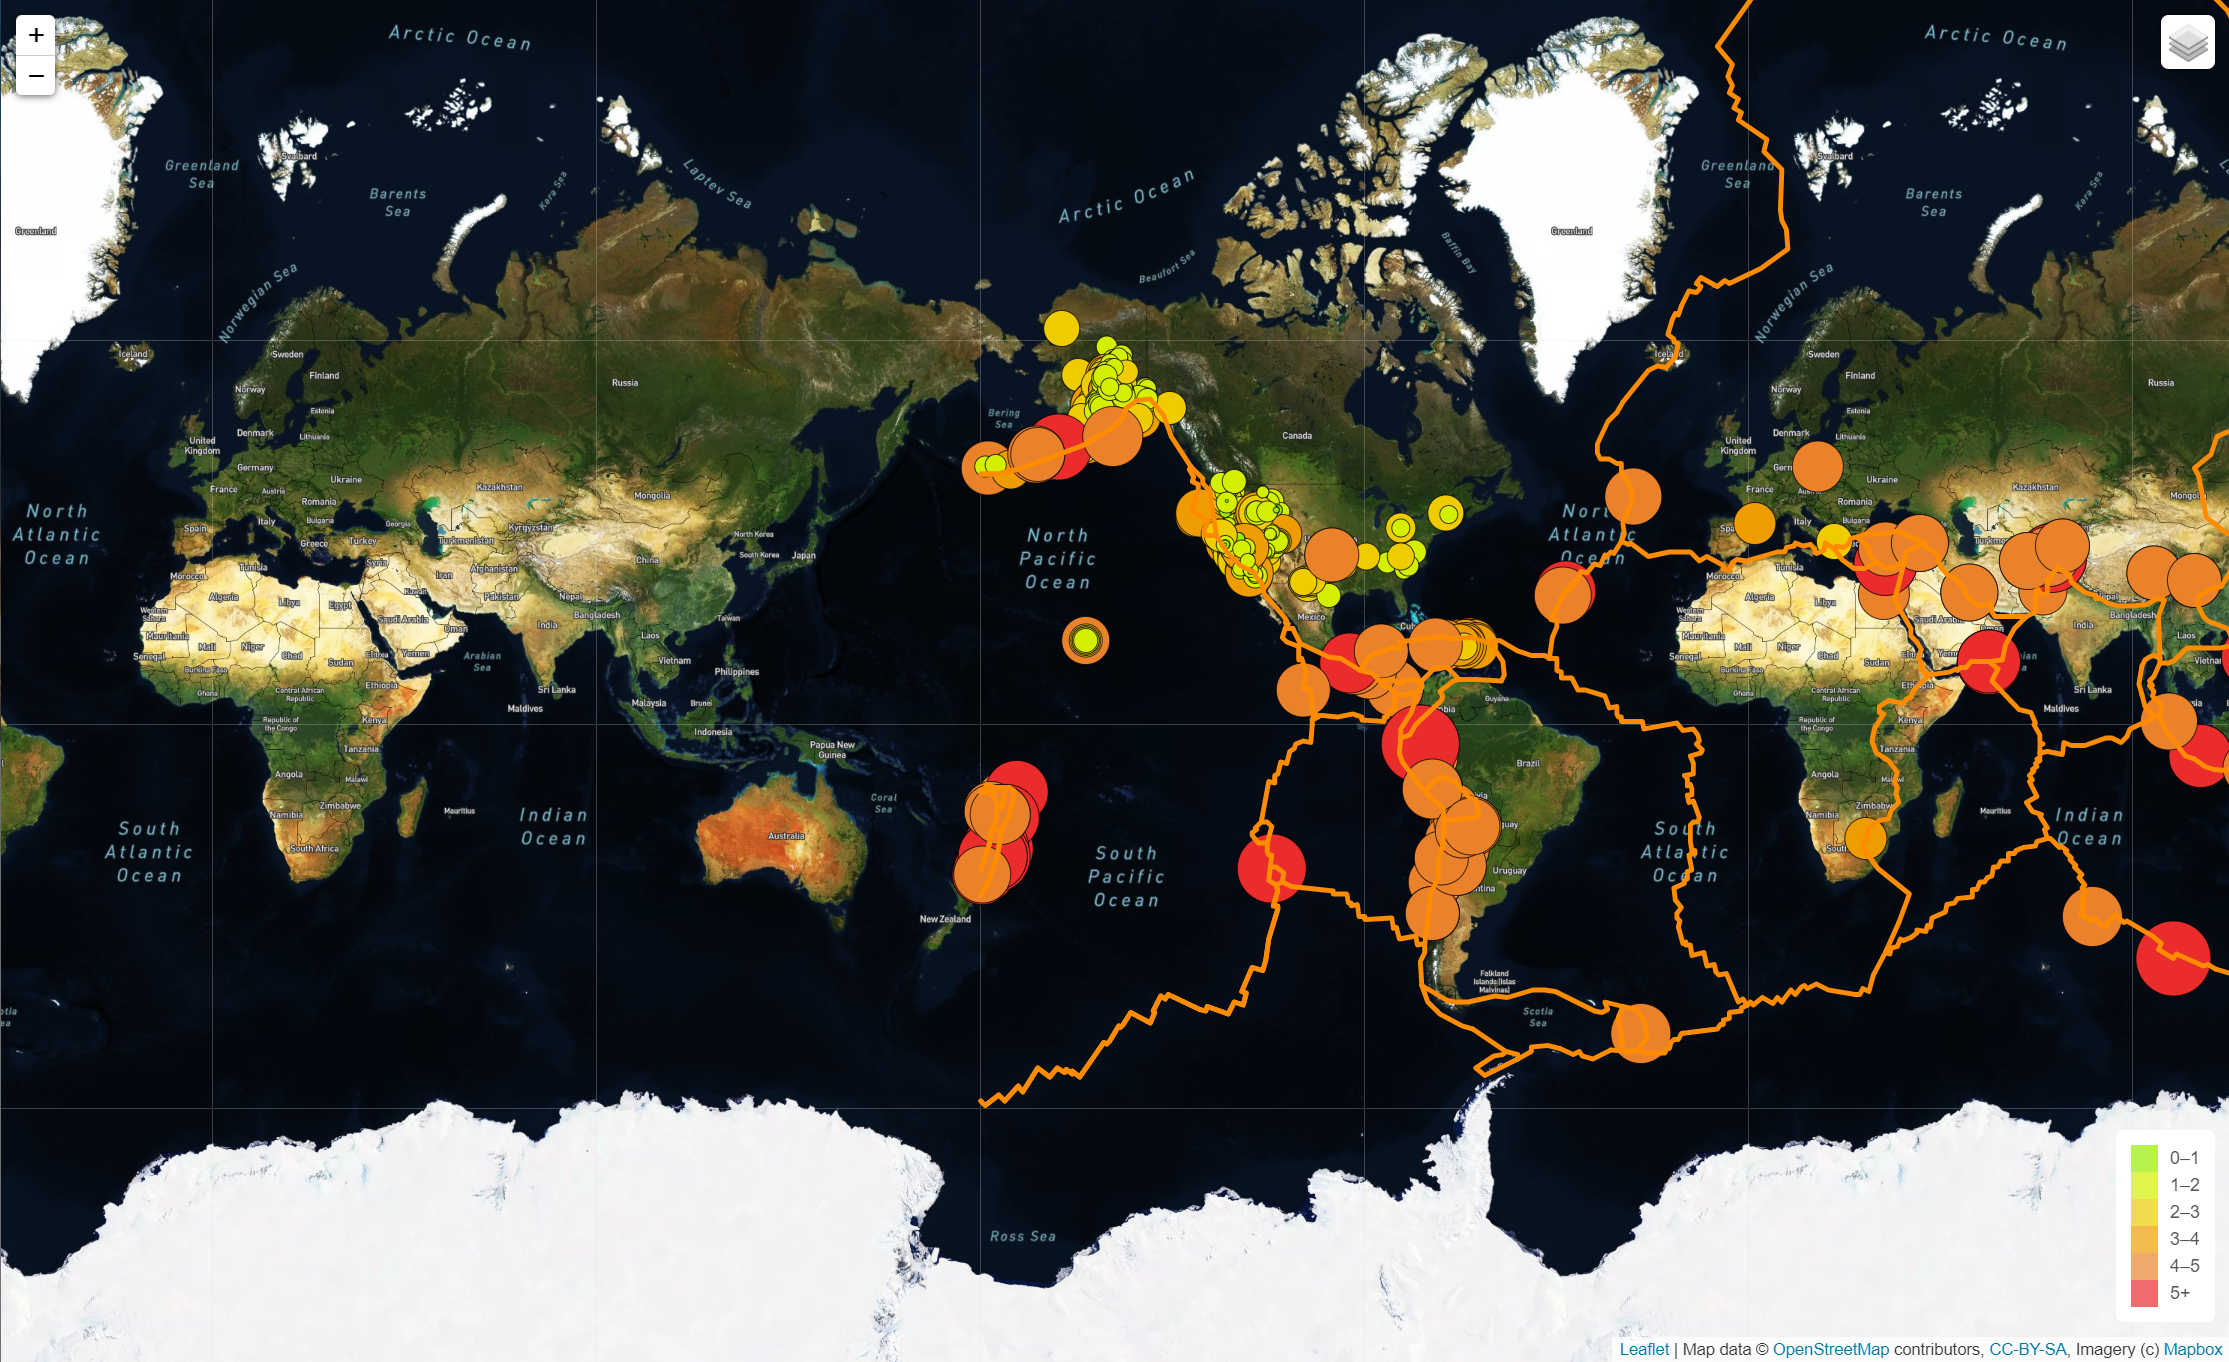
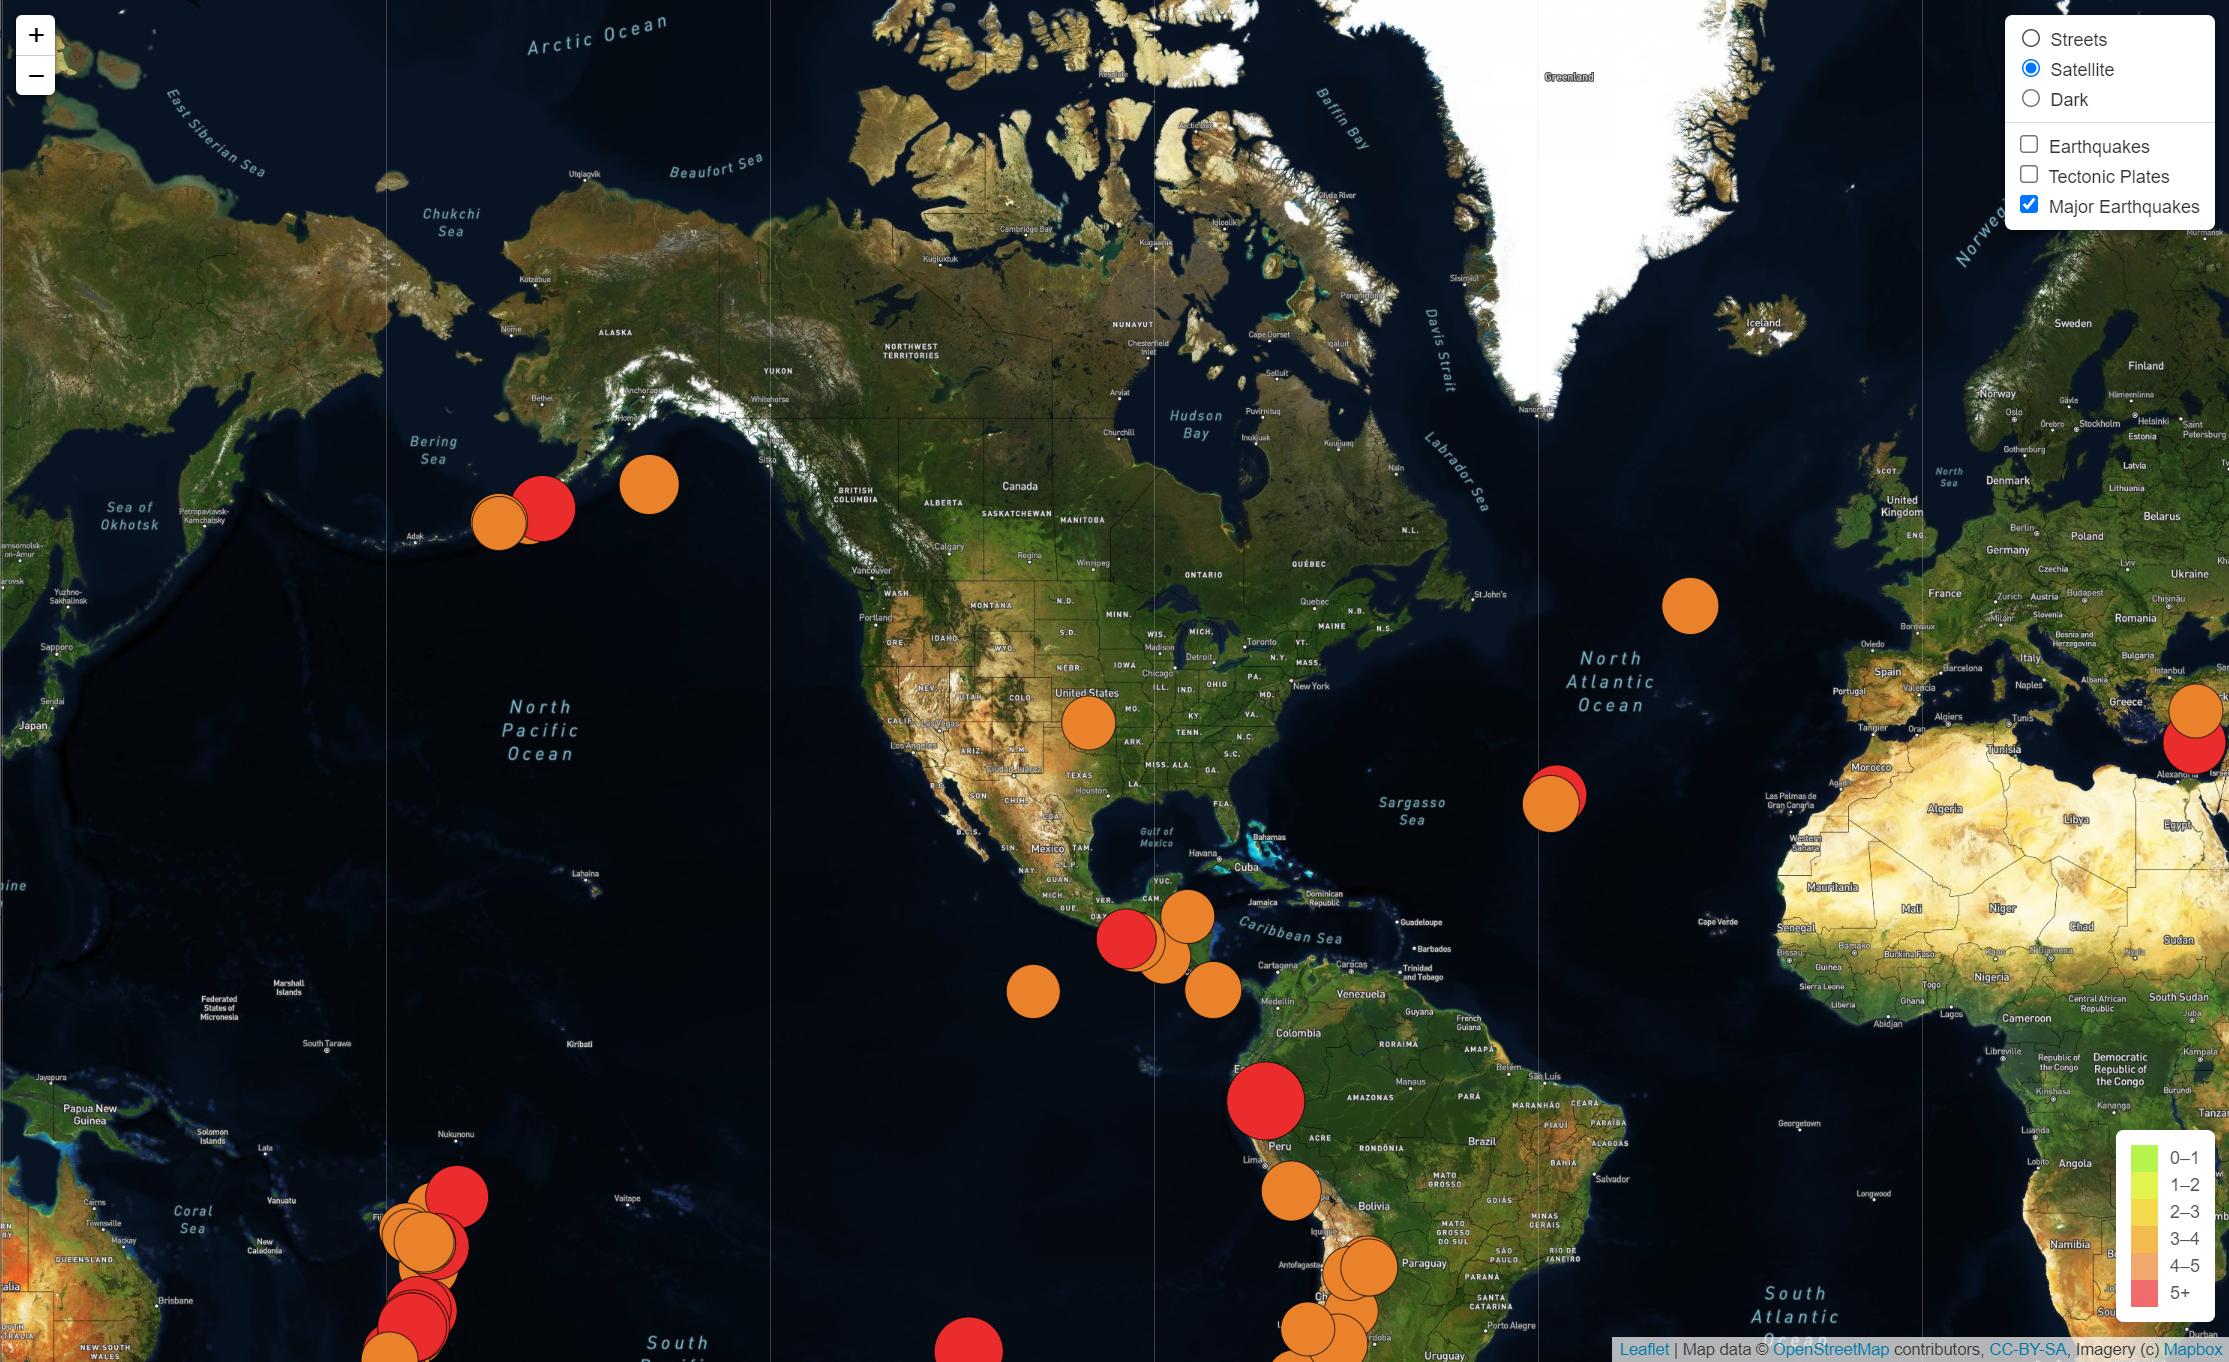
updated readme

diff --git a/README.md b/README.md
@@ -1,11 +1,14 @@
 # Mapping_Earthquakes
 
+## Overview
+Gather earthquake data from USGI API to create interactive maps.  
 
+### Street View
 
-![street.png](Earchquake_Challenge\images/street.png)  
+![street.png](Earchquake_Challenge/images/street.png)  
 
- 
-![satellite.png](Earchquake_Challenge\images/satellite.png)  
+### Satellite View with Major Quakes 
+![satellite.png](Earchquake_Challenge/images/satellite.png)  
 
- 
-![dark.png](Earchquake_Challenge\images/dark.png)  
+### Dark View 
+![dark.png](Earchquake_Challenge/images/dark.png)  
